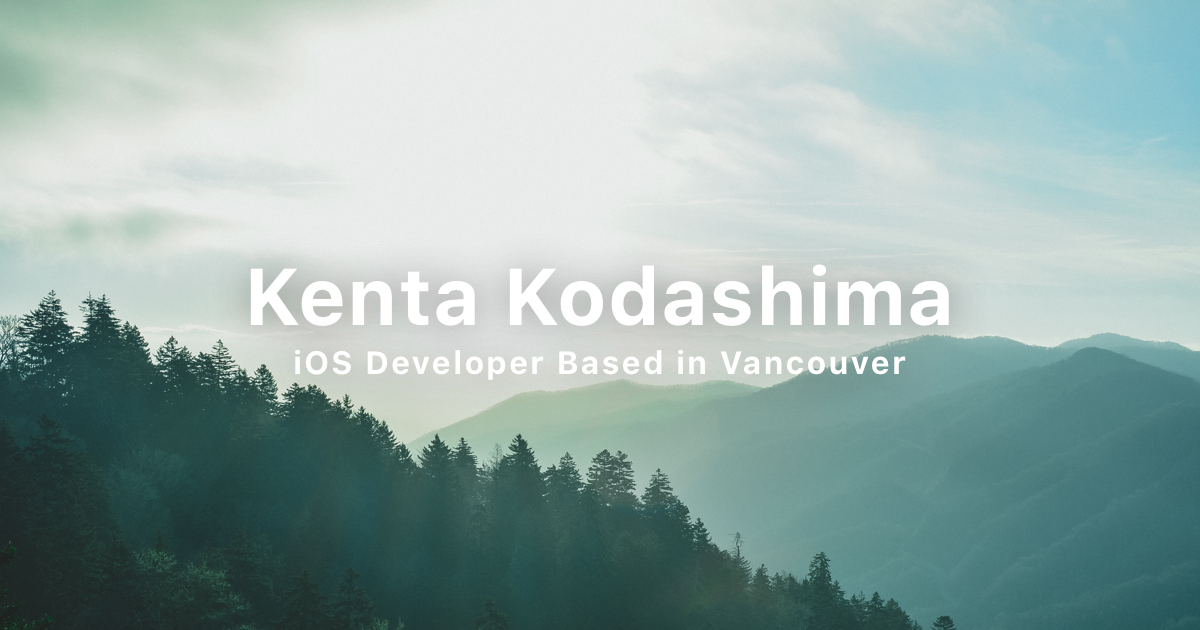
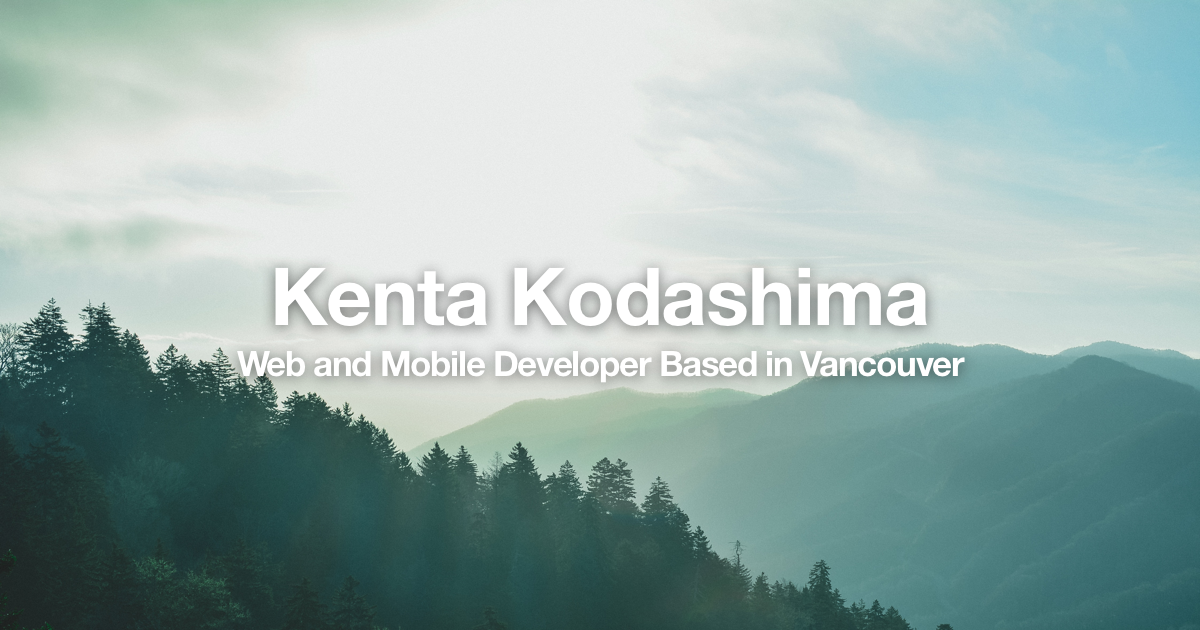
Change the contents on the local to the latest ones.

diff --git a/wp-content/themes/portfolio/front-page.php b/wp-content/themes/portfolio/front-page.php
@@ -9,7 +9,6 @@
             <li><a href="https://www.linkedin.com/in/kenta-kodashima-61940611a/"><i class="fab fa-linkedin-in"></i></a></li>
             <li><a href="https://medium.com/@KentaKodashima"><i class="fab fa-medium-m"></i></a></li>
             <li><a href="https://www.facebook.com/kenta.kodashima.5"><i class="fab fa-facebook-f"></i></a></li>
-            <li><a href="https://twitter.com/kentakodashima"><i class="fab fa-twitter"></i></a></li>
           </ul>
         </div>
       </div>
@@ -94,8 +93,7 @@
             <p class="icons"><i class="fas fa-mobile-alt"></i></p>
             <p class="skillName">iOS Development</p>
             <p class="description">
-              I have solid knowledge about iOS development basics such as delegation pattern, MVC pattern, ARC system
-              etc.
+              I have solid knowledge about iOS development basics such as delegation pattern, MVC pattern, ARC system, Optionals, Closures, etc.
               In July of 2018, I published my very first own project on the App Store.
             </p>
             <ul class="tags">
@@ -125,24 +123,42 @@
           </div>
           <div class="thumbnail col-md-4">
             <p class="icons"><i class="fas fa-laptop-code"></i></p>
-            <p class="skillName">Front-end Development</p>
+            <p class="skillName">Front-End Development</p>
             <p class="description">
-              As a Front-end developer in a design studio, I built some website and HTML emails. When I build a website, I pay close attention to the details such as spacing in pixels and  font-size. I love writing the beautifully formated code.
+              As a Front-end developer in a design studio, I had been building websites for the clients. I always write the beautifully formated code so that anyone can understand easily. 
             </p>
             <ul class="tags">
               <li class="tagItem">HTML5</li>
               <li class="tagItem">CSS3</li>
               <li class="tagItem">Sass</li>
               <li class="tagItem">jQuery</li>
-              <li class="tagItem">React.js</li>
+              <li class="tagItem">ReactJS</li>
               <li class="tagItem">Redux</li>
               <li class="tagItem">AWS/S3</li>
               <li class="tagItem">Bootstrap</li>
-              <li class="tagItem">Gulp.js</li>
-			  <li class="tagItem">WordPress</li>
+              <li class="tagItem">MaterializeCSS</li>
+              <li class="tagItem">Semantic UI</li>
+              <li class="tagItem">SEO</li>
+              <li class="tagItem">GulpJS</li>
+			        <li class="tagItem">WordPress</li>
             </ul>
           </div>
           <div class="thumbnail col-md-4 noRightMargin">
+            <p class="icons"><i class="fas fa-laptop-code"></i></p>
+            <p class="skillName">Back-End Development</p>
+            <p class="description">
+              In order to deepen my knowledge about web development, I learned back-end developement by myself and built a fullstack web app. Now I understand how I can set routes and how the browser handles requests.
+            </p>
+            <ul class="tags">
+              <li class="tagItem">NodeJS</li>
+              <li class="tagItem">Express</li>
+              <li class="tagItem">MongoDB</li>
+              <li class="tagItem">RESTful</li>
+              <li class="tagItem">PassportJS</li>
+              <li class="tagItem">Mongoose</li>
+            </ul>
+          </div>
+          <div class="thumbnail col-md-4">
             <p class="icons"><i class="fab fa-github"></i></p>
             <p class="skillName">Team Communication Tools</p>
             <p class="description">
@@ -159,7 +175,7 @@
             <p class="icons"><i class="fas fa-paint-brush"></i></p>
             <p class="skillName">Design Applications</p>
             <p class="description">
-              I'm familiar with common applications for designing. When I was a front-end developer, I also did trivial design adjustment using Photoshop. Icon materials on my iOS app called "Amtrip" are made using Sketch.
+              I'm familiar with common applications for designing. When I was working for the design studio, I also did trivial design adjustment using Photoshop. Icon materials on my iOS app called "Amtrip" are made using Sketch.
             </p>
             <ul class="tags">
               <li class="tagItem">Photoshop</li>
@@ -229,7 +245,7 @@
             <h3 class="sectionTitle sectionTitleC">Kenta Kodashima</h3>
             <div class="profileText">
               <p>I had been working as a front-end web developer and project manager in a web design studio in Tokyo. Now I'm completing a Web and Mobile App Development diploma at a college in Vancouver, seeking to get an opportunity as an iOS developer or a front-end web developer.</p>
-              <p>I'm passionate about learning new things, sharing my knowledge, and making something useful thing for people. In order to share my knowledge, I write medium articles about what I learn from making apps.</p>
+              <p>I'm passionate about learning new things, sharing my knowledge, and making something using modern technologies. In order to share my knowledge, I write medium articles about what I learn from making apps.</p>
               <p>My recent interest is in Docker, Node.js, MongoDB, MySQL, RxSwift, Kotlin, React Native and Flutter.</p>
             </div>
             <ul class="icons">
@@ -237,7 +253,6 @@
               <li><a href="https://www.linkedin.com/in/kenta-kodashima-61940611a/"><i class="fab fa-linkedin-in"></i></a></li>
               <li><a href="https://medium.com/@KentaKodashima"><i class="fab fa-medium-m"></i></a></li>
               <li><a href="https://www.facebook.com/kenta.kodashima.5"><i class="fab fa-facebook-f"></i></a></li>
-              <li><a href="https://twitter.com/kentakodashima"><i class="fab fa-twitter"></i></a></li>
             </ul>
           </div>
         </div>
@@ -248,7 +263,7 @@
         <h2 class="sectionTitle">Contact</h2>
         <div class="content">
           <p class="greetingText">
-            Thank you for visiting this website.<br> Currently, I'm looking for a job opportunity as an iOS developer.<br>
+            Thank you for visiting this website.<br> Currently, I'm looking for a job opportunity as an iOS developer or a web developer.<br>
             Please
             feel free to contact me.
           </p>

diff --git a/wp-content/themes/portfolio/footer.php b/wp-content/themes/portfolio/footer.php
@@ -6,7 +6,6 @@
           <li><a href="https://www.linkedin.com/in/kenta-kodashima-61940611a/"><i class="fab fa-linkedin-in"></i></a></li>
           <li><a href="https://medium.com/@KentaKodashima"><i class="fab fa-medium-m"></i></a></li>
           <li><a href="https://www.facebook.com/kenta.kodashima.5"><i class="fab fa-facebook-f"></i></a></li>
-          <li><a href="https://twitter.com/kentakodashima"><i class="fab fa-twitter"></i></a></li>
         </ul>
         <p class="footerText footerGreeting">
           <a href="mailto:kentakodashima@gmail.com" class="emailLink">Feel free to ask me questions!</a>
